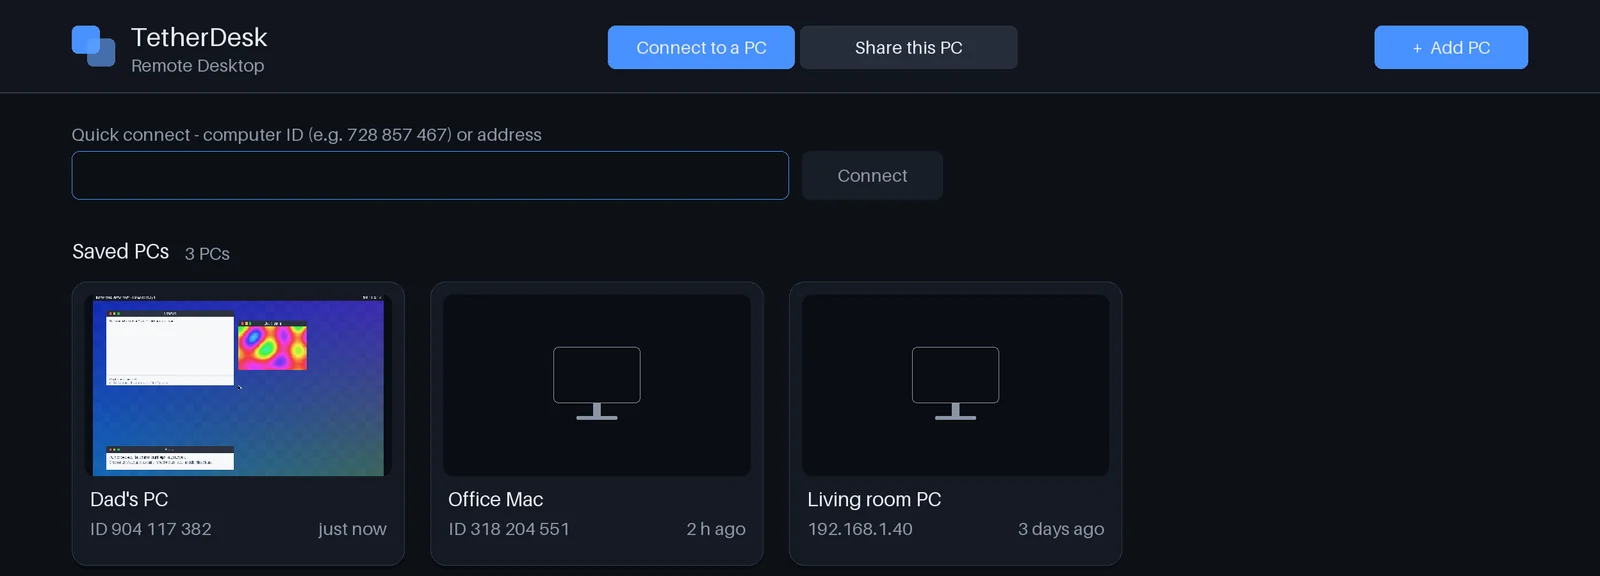
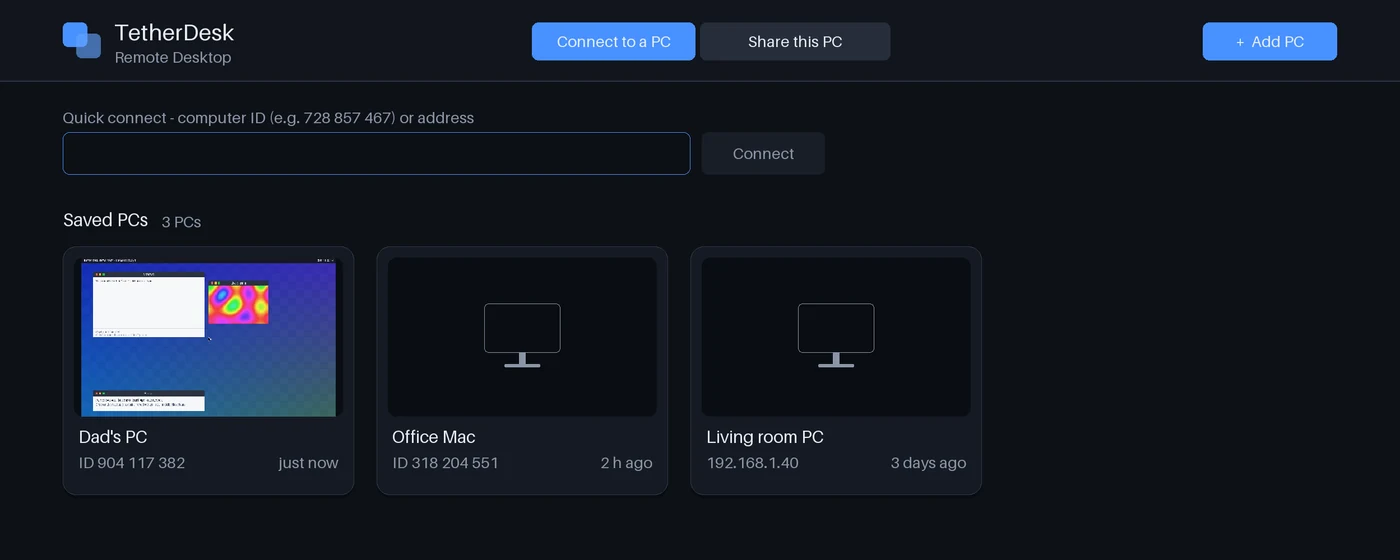
Website: fix squashed screenshots (height:auto), tighter share crop, cache-busting

diff --git a/relay/site/home.html b/relay/site/home.html
@@ -8,7 +8,7 @@
 <meta name="color-scheme" content="dark">
 <meta property="og:title" content="TetherDesk — Remote desktop that just works">
 <meta property="og:description" content="Help anyone, from anywhere. End-to-end encrypted. No installs, no port forwarding, no VPN.">
-<meta property="og:image" content="/assets/session.webp">
+<meta property="og:image" content="/assets/session.webp?v=2">
 <link rel="icon" type="image/png" href="/assets/favicon.png">
 <style>
   :root {
@@ -35,7 +35,7 @@
   }
   a { color: var(--accent-2); text-decoration: none; }
   a:hover { text-decoration: underline; }
-  img { max-width: 100%; display: block; }
+  img { max-width: 100%; height: auto; display: block; }  /* keep screenshots' proportions */
   .wrap { max-width: var(--max); margin: 0 auto; padding: 0 20px; }
 
   /* nav */
@@ -171,7 +171,7 @@
         <a class="btn btn-ghost" href="/get">I need help</a>
       </div>
       <p class="cta-note">macOS 12.3+ · Windows 10 &amp; 11 · Linux (X11) · any modern browser</p>
-      <div class="shot"><img src="/assets/session.webp" width="1600" height="1024" alt="A remote desktop session in TetherDesk, with the connection bar at the top"></div>
+      <div class="shot"><img src="/assets/session.webp?v=2" width="1600" height="1024" alt="A remote desktop session in TetherDesk, with the connection bar at the top"></div>
     </div>
   </div>
 
@@ -221,13 +221,13 @@
           <li><b>Pinned identities</b> — TetherDesk warns you if a computer's identity ever changes</li>
         </ul>
       </div>
-      <div class="shot"><img src="/assets/home.webp" width="1600" height="576" alt="The TetherDesk home screen with saved computers" loading="lazy"></div>
+      <div class="shot"><img src="/assets/home.webp?v=2" width="1400" height="560" alt="The TetherDesk home screen with saved computers" loading="lazy"></div>
     </div>
   </section>
 
   <section class="alt">
     <div class="wrap split rev">
-      <div class="shot"><img src="/assets/share.webp" width="1600" height="832" alt="The Share this PC screen showing an ID and password" loading="lazy"></div>
+      <div class="shot"><img src="/assets/share.webp?v=2" width="1200" height="975" alt="The Share this PC screen showing an ID and password" loading="lazy"></div>
       <div>
         <h2>Share this PC — or keep it always on</h2>
         <p class="sub" style="margin-bottom:0">Flip one switch and your computer is reachable from anywhere. You stay in control.</p>
